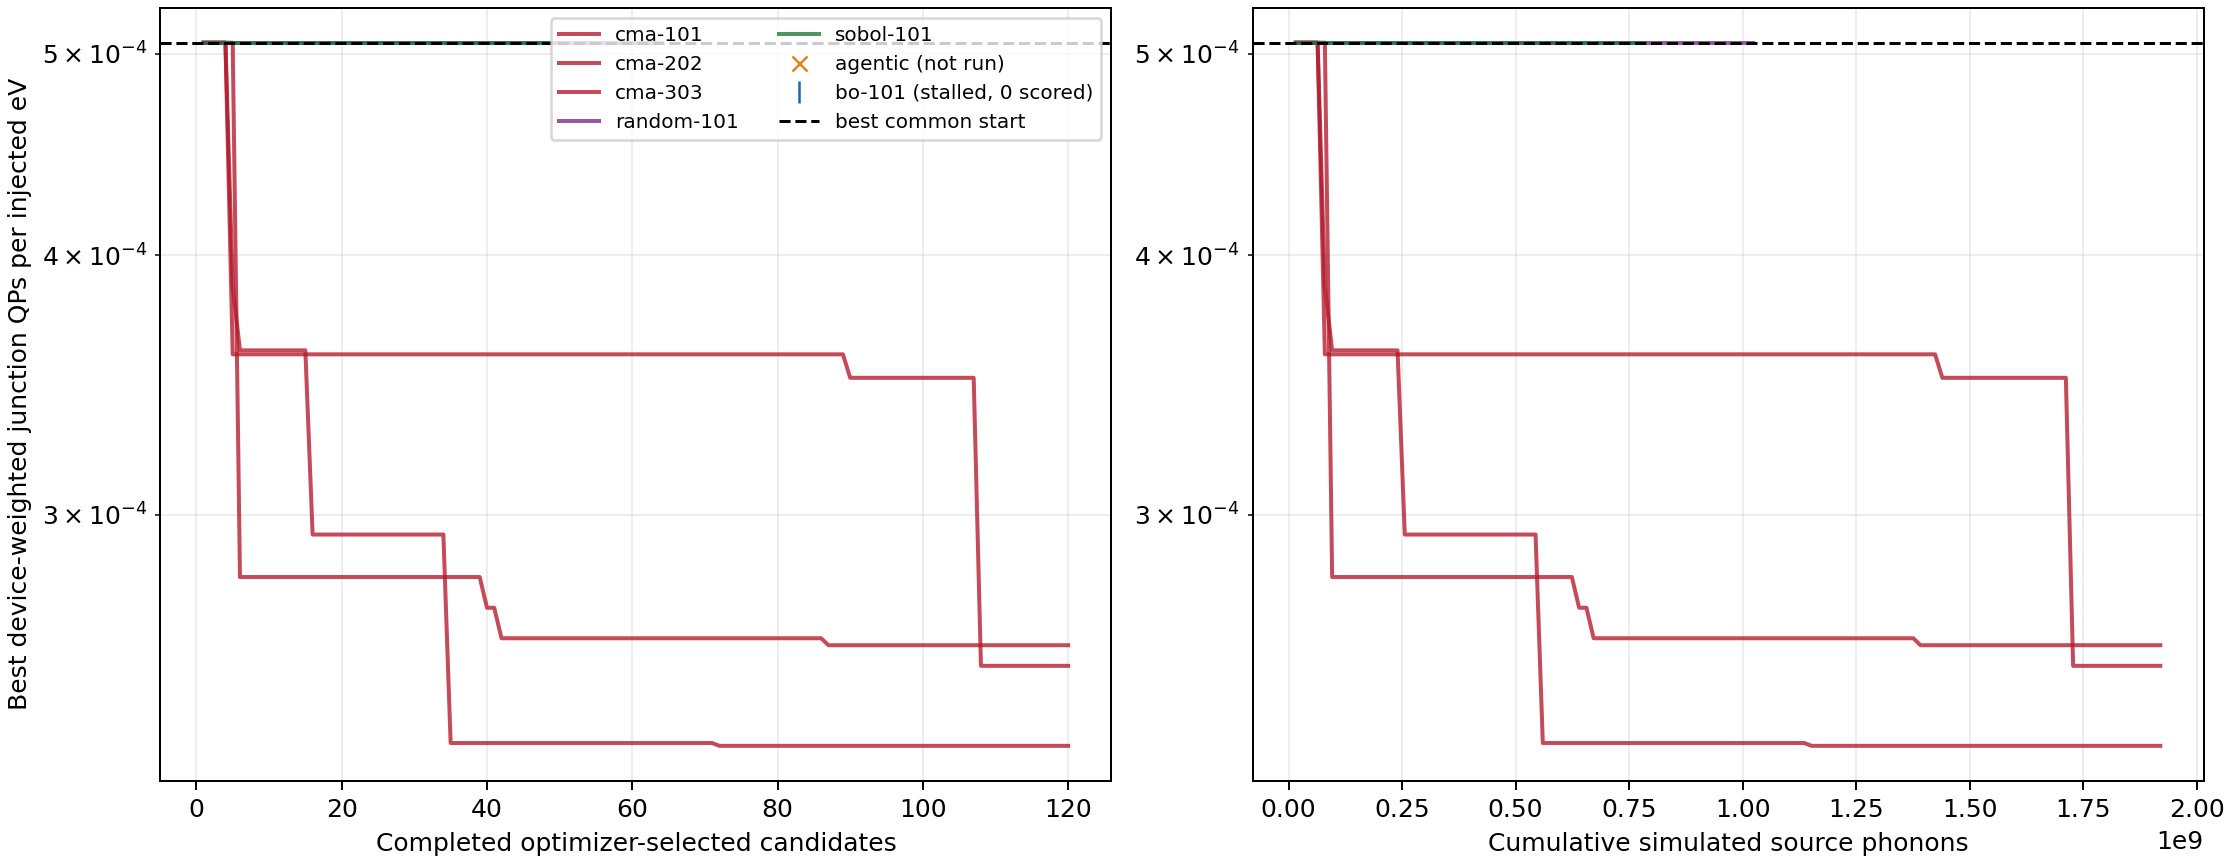
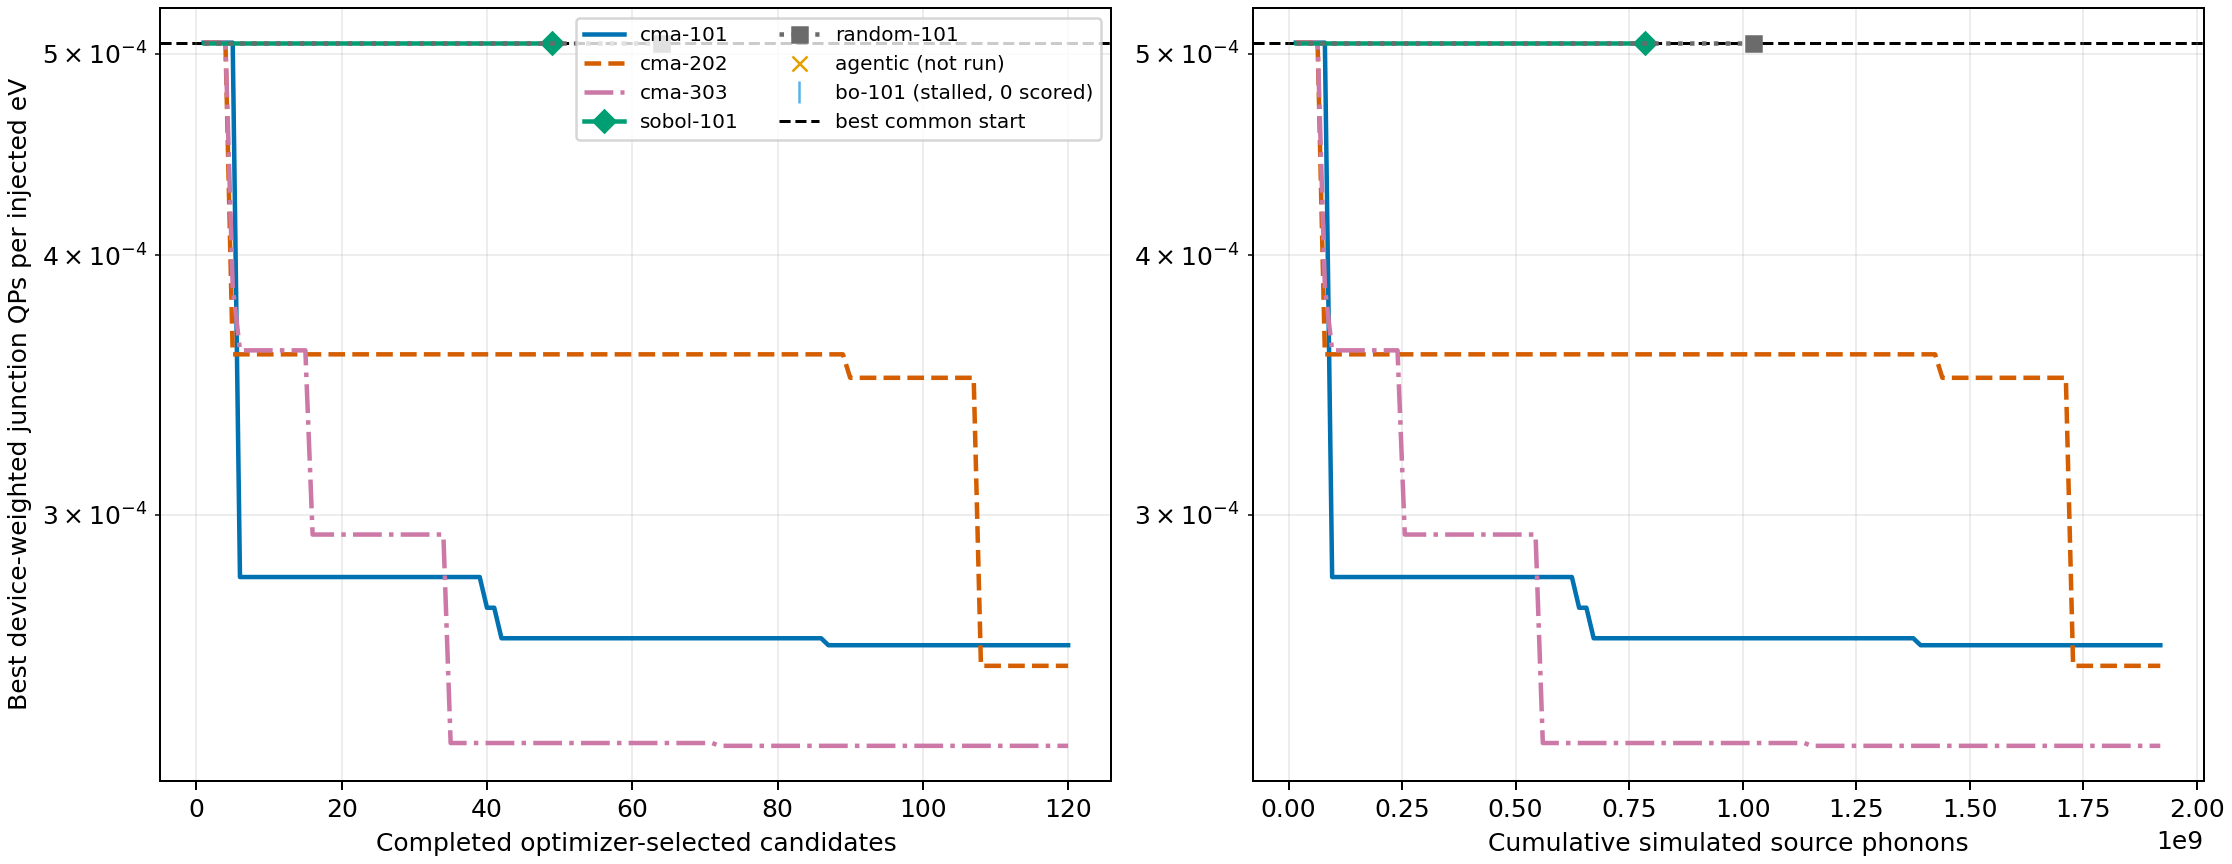
Fix GitHub math rendering and plot styles

diff --git a/material_scan/tools/search_report.py b/material_scan/tools/search_report.py
@@ -331,45 +331,60 @@ def plot(report: Mapping[str, Any], output: Path) -> None:
     figure, axes = plt.subplots(
         1, columns, figsize=(6.2 * columns, 4.8), constrained_layout=True
     )
-    colors = {
-        "bo_gp": "#2166ac",
-        "cmaes": "#b2182b",
-        "sobol": "#1b7837",
-        "random": "#762a83",
-        "agentic": "#e08214",
+    styles = {
+        "bo_gp": [("#56B4E9", "-", "|")],
+        "cmaes": [
+            ("#0072B2", "-", None),
+            ("#D55E00", "--", None),
+            ("#CC79A7", "-.", None),
+        ],
+        "sobol": [("#009E73", "-", "D")],
+        "random": [("#6B6B6B", ":", "s")],
+        "agentic": [("#E69F00", "-", "o")],
     }
+    method_counts: Counter[str] = Counter()
+    run_styles: dict[str, tuple[str, str, str | None]] = {}
+    for label, item in report["runs"].items():
+        method = item["method"]
+        variants = styles.get(method, [("#333333", "-", None)])
+        run_styles[label] = variants[method_counts[method] % len(variants)]
+        method_counts[method] += 1
+
     for label, values in report["curves"].items():
-        method = report["runs"][label]["method"]
-        color = colors.get(method, "#666666")
-        marker = "o" if len(values) <= 2 else None
-        axes[0].plot(range(1, len(values) + 1), values, color=color, alpha=0.78,
-                     linewidth=1.6, marker=marker, markersize=6, zorder=2,
-                     label=label)
+        color, linestyle, marker = run_styles[label]
+        marker_positions = [len(values) - 1] if marker and values else None
+        axes[0].plot(
+            range(1, len(values) + 1), values, color=color, linestyle=linestyle,
+            linewidth=1.8, marker=marker, markevery=marker_positions, markersize=6,
+            zorder=2, label=label,
+        )
         events = report["source_phonons_per_candidate"]
         axes[1].plot(
             [events * index for index in range(1, len(values) + 1)], values,
-            color=color, alpha=0.78, linewidth=1.6, marker=marker, markersize=6,
-            zorder=2, label=label,
+            color=color, linestyle=linestyle, linewidth=1.8, marker=marker,
+            markevery=marker_positions, markersize=6, zorder=2, label=label,
         )
         elapsed = report.get("elapsed_curves", {}).get(label)
         if has_elapsed and elapsed:
             axes[2].plot(
                 [seconds / 3600.0 for seconds in elapsed], values,
-                color=color, alpha=0.78, linewidth=1.6, marker=marker, markersize=6,
-                zorder=2, label=label,
+                color=color, linestyle=linestyle, linewidth=1.8, marker=marker,
+                markevery=marker_positions, markersize=6, zorder=2, label=label,
             )
     for label, method in report.get("pending", {}).items():
+        color = styles.get(method, [("#333333", "-", None)])[0][0]
         axes[0].plot(
-            [], [], marker="x", linestyle="none", color=colors.get(method, "#666666"),
+            [], [], marker="x", linestyle="none", color=color,
             label=f"{label} (not run)",
         )
     for label, item in report.get("incomplete", {}).items():
         if label in report["curves"]:
             continue
         method = item["method"]
+        color = styles.get(method, [("#333333", "-", None)])[0][0]
         axes[0].plot(
             [], [], marker="|", markersize=9, linestyle="none",
-            color=colors.get(method, "#666666"),
+            color=color,
             label=f"{label} ({item['status']}, 0 scored)",
         )
     for axis in axes:

diff --git a/material_scan/docs/science.md b/material_scan/docs/science.md
@@ -6,11 +6,11 @@ For material parameters `x`, injection condition `ξ`, transport realization
 `ω`, and electrode `e`, let `Q_e(x, ξ, ω)` be the quasiparticles delivered to
 that electrode. The present computable quantity is
 
-\[
+$$
 J(x)=\mathbb E_{\xi,\omega}\left[
-  \frac{1}{E_{\rm gun}}\sum_e w_e Q_e(x,\xi,\omega)
+  \frac{1}{E_{\mathrm{gun}}}\sum_e w_e Q_e(x,\xi,\omega)
 \right],\qquad \sum_e w_e=1.
-\]
+$$
 
 The current run has one 10 meV phonon gun and fixed energy, so division by
 energy changes every value by the same constant. It is nevertheless explicit
@@ -24,10 +24,10 @@ time-dependent conversion from local quasiparticle density to qubit error.
 
 The program also reports
 
-\[
-R_{0.95}=\operatorname{CVaR}_{0.95}
-\left[\max_e Q_e/E_{\rm gun}\right],
-\]
+$$
+R_{0.95}=\mathrm{CVaR}_{0.95}\,
+\left[\max_e Q_e/E_{\mathrm{gun}}\right],
+$$
 
 the mean worst-electrode burden among the upper five percent of injections.
 There is no independently justified upper limit yet, so this remains a second
@@ -51,9 +51,9 @@ The sites are nested when the total is increased from 128 to 256 to 512. Near
 electrodes are deliberately oversampled. If region `h` has true area fraction
 `W_h` and mean response `μ_h`, the estimator is
 
-\[
+$$
 \widehat J=\sum_h W_h\widehat\mu_h.
-\]
+$$
 
 An equal average over all sites is wrong because it gives the oversampled
 electrode regions too much physical area. Candidate and reference comparisons
@@ -93,11 +93,11 @@ reuse this cubic shortcut.
 
 The Gaussian process embeds the two sphere coordinates as
 
-\[
+$$
 (x,y,z)=(\sqrt{1-z^2}\cos\phi,
          \sqrt{1-z^2}\sin\phi,
          z).
-\]
+$$
 
 Its Matérn-5/2 covariance uses one fitted length scale for equatorial motion
 and one for polar motion. Other physical inputs retain independent fitted

diff --git a/README.md b/README.md
@@ -45,7 +45,7 @@ $$
 \widehat J(x)=
 \sum_{h=1}^{H}W_h\frac{1}{n_hR}
 \sum_{i\in h}\sum_{r=1}^{R}
-\frac{\sum_e w_eQ_{e,i,r}(x)}{N_{\rm task}E_{\rm gun}},
+\frac{\sum_e w_eQ_{e,i,r}(x)}{N_{\mathrm{task}}E_{\mathrm{gun}}},
 \qquad
 \sum_hW_h=\sum_ew_e=1.
 $$
@@ -85,7 +85,7 @@ flowchart LR
 At iteration $t$, the local model proposes a pool
 
 $$
-P_t=\operatorname{LLM}(\mathcal K,\mathcal D_t,\mathcal F_t),
+P_t=\mathrm{LLM}\,(\mathcal K,\mathcal D_t,\mathcal F_t),
 \qquad |P_t|=12,
 $$
 
@@ -98,14 +98,14 @@ $$
 The existing heteroscedastic GP then selects
 
 $$
-x_{t+1}=\arg\max_{x\in A_t}\operatorname{EI}_t(x),
+x_{t+1}=\arg\max_{x\in A_t}\mathrm{EI}_t(x),
 $$
 
 where, for minimization,
 
 $$
 z=\frac{J_{\min}-\mu_t(x)-\xi}{\sigma_t(x)},\qquad
-\operatorname{EI}_t(x)=
+\mathrm{EI}_t(x)=
 (J_{\min}-\mu_t(x)-\xi)\Phi(z)+\sigma_t(x)\phi(z).
 $$
 
@@ -164,7 +164,7 @@ Let $J_0=(5.062199\pm0.873542)\times10^{-4}$ be the best common start.
 The agentic pilot gives
 
 $$
-1-\frac{J_{\rm agent,1}}{J_0}=-0.0659,
+1-\frac{J_{\mathrm{agent},1}}{J_0}=-0.0659,
 $$
 
 so its selected point is numerically worse and the incumbent remains $J_0$.
@@ -201,7 +201,7 @@ An agentic improvement may be claimed only after all three 120-point seeds and
 a paired full-spatial comparison satisfy
 
 $$
-\sup\operatorname{CI}_{95\%}\!\left[J_{\rm agent}-J_{\rm comparator}\right]<0.
+\sup\,\mathrm{CI}_{95\%}\!\left[J_{\mathrm{agent}}-J_{\mathrm{comparator}}\right]<0.
 $$
 
 ## Running the agentic search on Mimir
